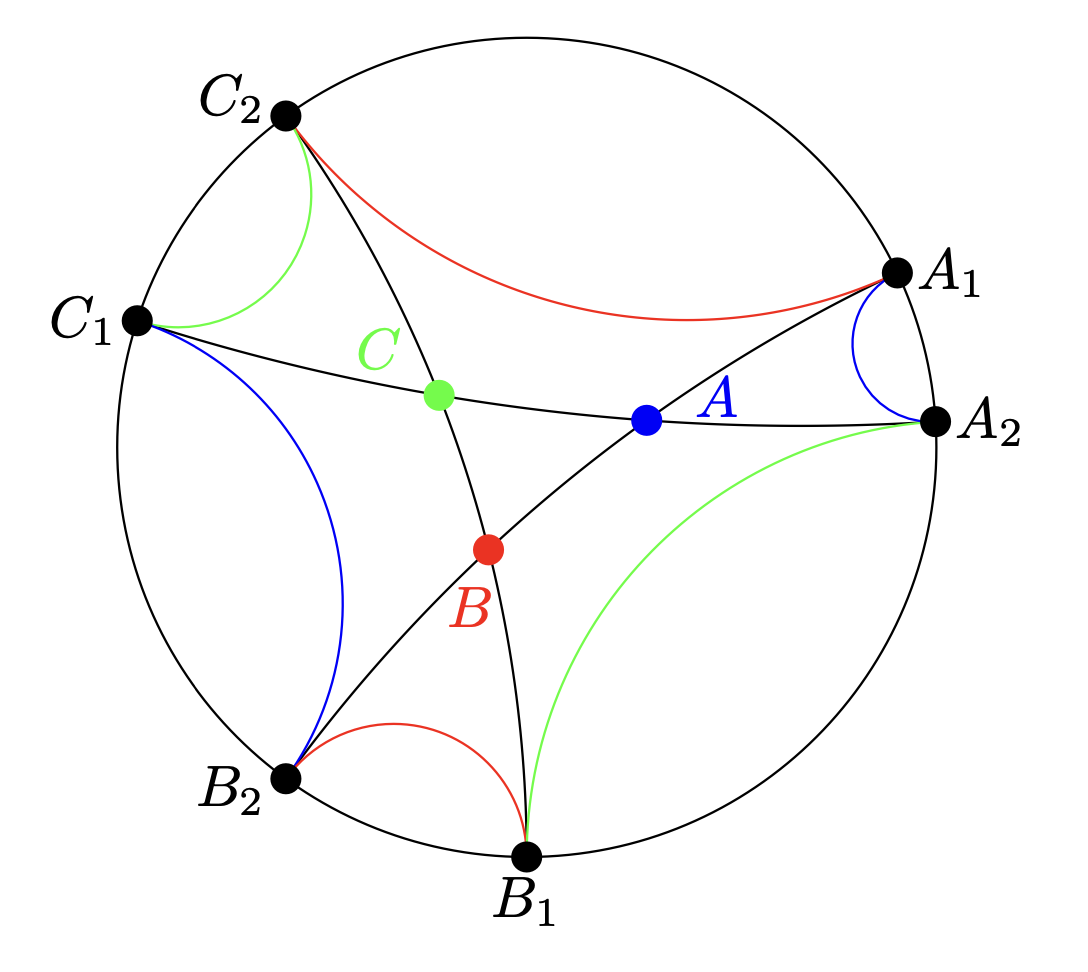
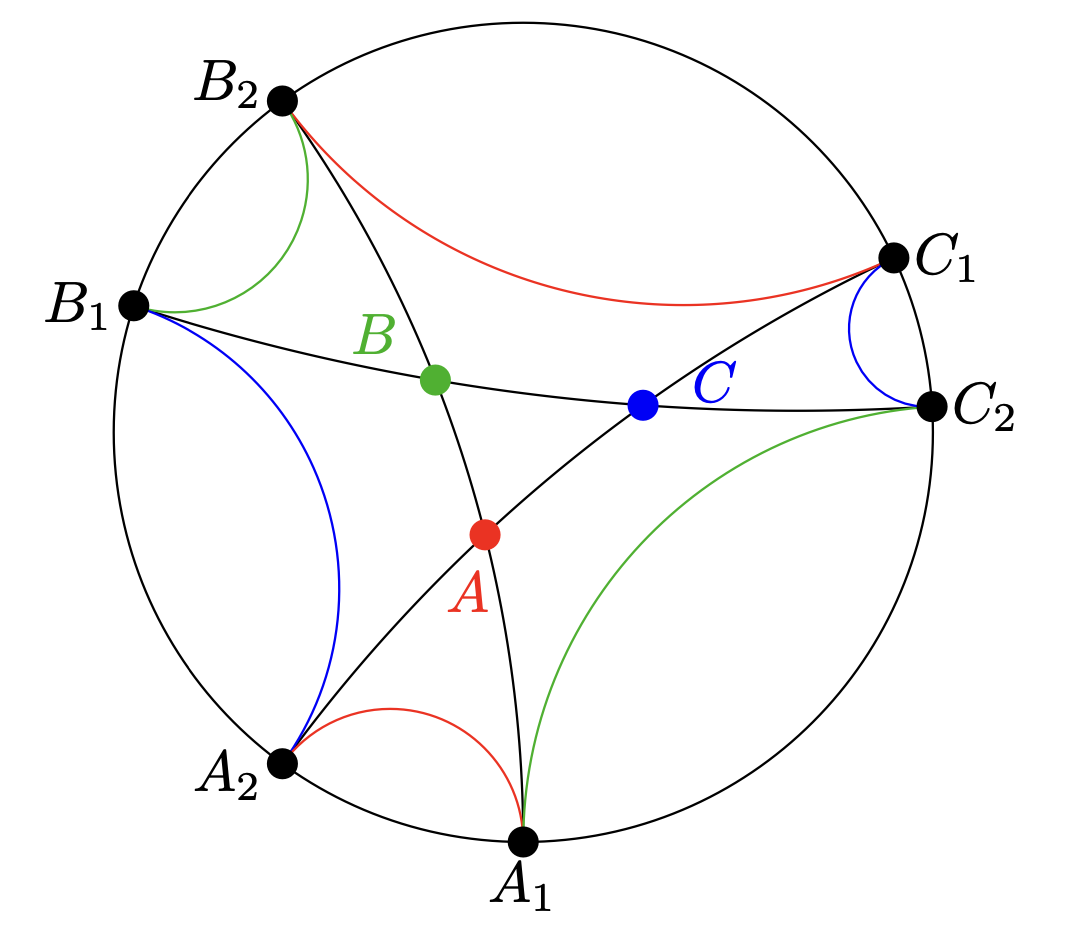
update commit

diff --git a/algeom_text_files/frontmatter.html b/algeom_text_files/frontmatter.html
@@ -353,7 +353,7 @@ eBookConfig.enable_chatcodes =  false;
 <div class="author-info">Department of Mathematical Sciences<br>Lebanon Valley College<br>Annville, PA, USA<br><a href="mailto:lyons@lvc.edu">lyons@lvc.edu</a>
 </div>
 </div>
-<div class="date">May 2023 Edition, revised: February 10, 2025</div>
+<div class="date">May 2023 Edition, revised: February 11, 2025</div>
 <nav class="summary-links"><ul>
 <li><a href="frontmatter-2.html" class="internal"><span class="title">Colophon</span></a></li>
 <li><a href="frontmatter-4.html" class="internal"><span class="title">Preface</span></a></li>

diff --git a/algeom_text_files/index.html b/algeom_text_files/index.html
@@ -2,7 +2,7 @@
 <html>
 <!--********************************************-->
 <!--*       Generated from PreTeXt source      *-->
-<!--*       on 2025-02-10T10:54:08-05:00       *-->
+<!--*       on 2025-02-11T13:39:10-05:00       *-->
 <!--*   A recent stable commit (2022-07-01):   *-->
 <!--* 6c761d3dba23af92cba35001c852aac04ae99a5f *-->
 <!--*                                          *-->

diff --git a/algeom_text_files/external/images/hyp_triangle_experiment.tex b/algeom_text_files/external/images/hyp_triangle_experiment.tex
@@ -22,7 +22,7 @@
     \b1=.45; % 
     \b2=.65; %     
     \c1=.75; % 
-    \c2=0.01; %    
+    \c2=.01; %    
   }
   \tikzmath{
     \A1=\a1*360;
@@ -35,12 +35,12 @@
   \begin{pgfonlayer}{fore}
   %% polar coords is (angle: norm)
   \draw[black] (0,0) circle (1); % boundary circle
-  \filldraw[black] (\A1: 1) circle (1pt) node[anchor=west] {$C_1$};
-  \filldraw[black] (\A2: 1) circle (1pt) node[anchor=east, yshift=3pt] {$B_2$};
-  \filldraw[black] (\B1: 1) circle (1pt) node[anchor=east] {$B_1$};
-  \filldraw[black] (\B2: 1) circle (1pt) node[anchor=east, yshift=-2pt] {$A_2$};
-  \filldraw[black] (\C1: 1) circle (1pt) node[anchor=north] {$A_1$};
-  \filldraw[black] (\C2: 1) circle (1pt) node[anchor=west] {$C_2$};
+  \filldraw[black] (\A1: 1) circle (1pt) node[anchor=west] {$A_1$};
+  \filldraw[black] (\A2: 1) circle (1pt) node[anchor=east, yshift=3pt] {$C_2$};
+  \filldraw[black] (\B1: 1) circle (1pt) node[anchor=east] {$C_1$};
+  \filldraw[black] (\B2: 1) circle (1pt) node[anchor=east, yshift=-2pt] {$B_2$};
+  \filldraw[black] (\C1: 1) circle (1pt) node[anchor=north] {$B_1$};
+  \filldraw[black] (\C2: 1) circle (1pt) node[anchor=west] {$A_2$};
   \end{pgfonlayer}
   
   % why neg tan?
@@ -57,18 +57,18 @@
   \draw[black, name path=b1c2] (\B1:1) arc ({\B1-270}:{\C2-90}:{(tan((\B1-\C2)/2))}); %
 
   \filldraw[blue, name intersections={of=a1b2 and b1c2}]
-  (intersection-1) circle (1pt) node[anchor=west, xshift=5pt, yshift=4pt] {$C$};
+  (intersection-1) circle (1pt) node[anchor=west, xshift=5pt, yshift=4pt] {$A$};
   \filldraw[red, name intersections={of=a1b2 and a2c1}] (intersection-1)
-  circle (1pt) node[anchor=north, xshift=-3pt, yshift=-3pt] {$A$};
-  \filldraw[black!30!green, name intersections={of=a2c1 and b1c2}]
-  (intersection-1) circle (1pt) node[anchor=east, xshift=-3pt, yshift=8pt] {$B$};; 
+  circle (1pt) node[anchor=north, xshift=-3pt, yshift=-3pt] {$B$};
+  \filldraw[green, name intersections={of=a2c1 and b1c2}]
+  (intersection-1) circle (1pt) node[anchor=east, xshift=-3pt, yshift=8pt] {$C$};; 
   
   
   %  \draw[red] ({(\A1+\A2)/2}: {(sec((-\A1+\A2)/2))}) circle  ({(tan((-\A1+\A2)/2))});
   \draw[red] (\A2:1) arc ({\A2-270}:{\A1-90}:{(tan((-\A1+\A2)/2))}); 
   
   %  \draw[green] ({(\A2+\B1)/2}: {(sec((-\A2+\B1)/2))}) circle  ({(tan((-\A2+\B1)/2))});
-  \draw[black!30!green] (\B1:1) arc ({\B1-270}:{\A2-90}:{(tan((-\A2+\B1)/2))}); 
+  \draw[green] (\B1:1) arc ({\B1-270}:{\A2-90}:{(tan((-\A2+\B1)/2))}); 
   
   %  \draw[blue] ({(\B2+\B1)/2}: {(sec((\B2-\B1)/2))}) circle  ({(tan((\B2-\B1)/2))});
   \draw[blue] (\B2:1) arc ({\B2-270}:{\B1-90}:{(tan((-\B1+\B2)/2))}); % 
@@ -77,7 +77,7 @@
   \draw[red] (\C1:1) arc ({\C1-270}:{\B2-90}:{(tan((-\B2+\C1)/2))}); % 
   
   %  \draw[green] ({(\C2+\C1)/2}: {(sec((\C2-\C1)/2))}) circle  ({(tan((\C2-\C1)/2))});
-  \draw[black!30!green] (\C1:1) arc ({\C1-270}:{\C2-90}:{(tan((\C1-\C2)/2))}); % 
+  \draw[green] (\C1:1) arc ({\C1-270}:{\C2-90}:{(tan((\C1-\C2)/2))}); % 
   
   %  \draw[blue] ({(\C2+\A1)/2}: {(sec((-\C2+\A1)/2))}) circle  ({(tan((-\C2+\A1)/2))});  
   \draw[blue] (\A1:1) arc ({\A1-270}:{\C2-90}:{(tan((-\C2+\A1)/2))}); %

diff --git a/algeom_text_files/external/images/image_texer.tex b/algeom_text_files/external/images/image_texer.tex
@@ -168,7 +168,7 @@ Figure~\ref{#2}\\ #7
 %% }
 %% \hfill\spacer
 
-\input{learnhypcirctikz}
+\input{hyperbolic_triangle_area2}
 
 
 \end{document}
